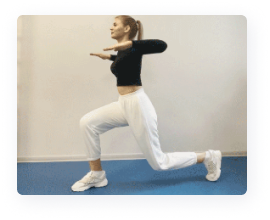
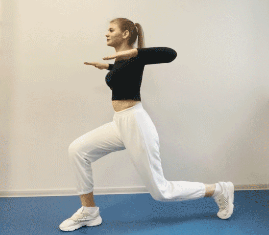
fix images #59

diff --git a/src/App.css b/src/App.css
@@ -623,8 +623,9 @@ img{
     font-size: 20px;
     cursor: pointer;
     user-select: none;
-    margin-left: 40px;
-    margin-top: 50px;
+    margin-left: 30px;
+    margin-top: 0px;
+    margin-bottom: 30px;
 
     /*position: absolute;*/
     left: calc(50% - 360px / 2);
@@ -667,9 +668,11 @@ img{
 .cardImg{
     width: 100%;
     height: 100%;
+    max-width: 230px;
+    max-height: 180px;
     object-fit: cover;
     box-shadow: 3px 5px 13px 0px rgba(118, 118, 118, 0.25);
-    border-width: 3px;
+    border-width: 0px;
     border-style: solid;
     border-radius: 6px;
     border-color: rgba(0, 0, 0, 0);
@@ -680,6 +683,7 @@ img{
 
 
 .card:hover .cardImg{
+    border-width: 2px;
     border-color: #90B8F8;
 }
 

diff --git a/src/pages/Days.tsx b/src/pages/Days.tsx
@@ -50,8 +50,8 @@ import day1 from '../assets/png/day1.png'
 import day2 from '../assets/png/day2.png'
 import day3 from '../assets/png/day3.png'
 import day4 from '../assets/png/day4.png'
-import day5 from '../assets/png/day5.png'
-import day6 from '../assets/png/day5.png'
+import day5 from '../assets/png/day7.png'
+import day6 from '../assets/png/day6.png'
 
 
 
